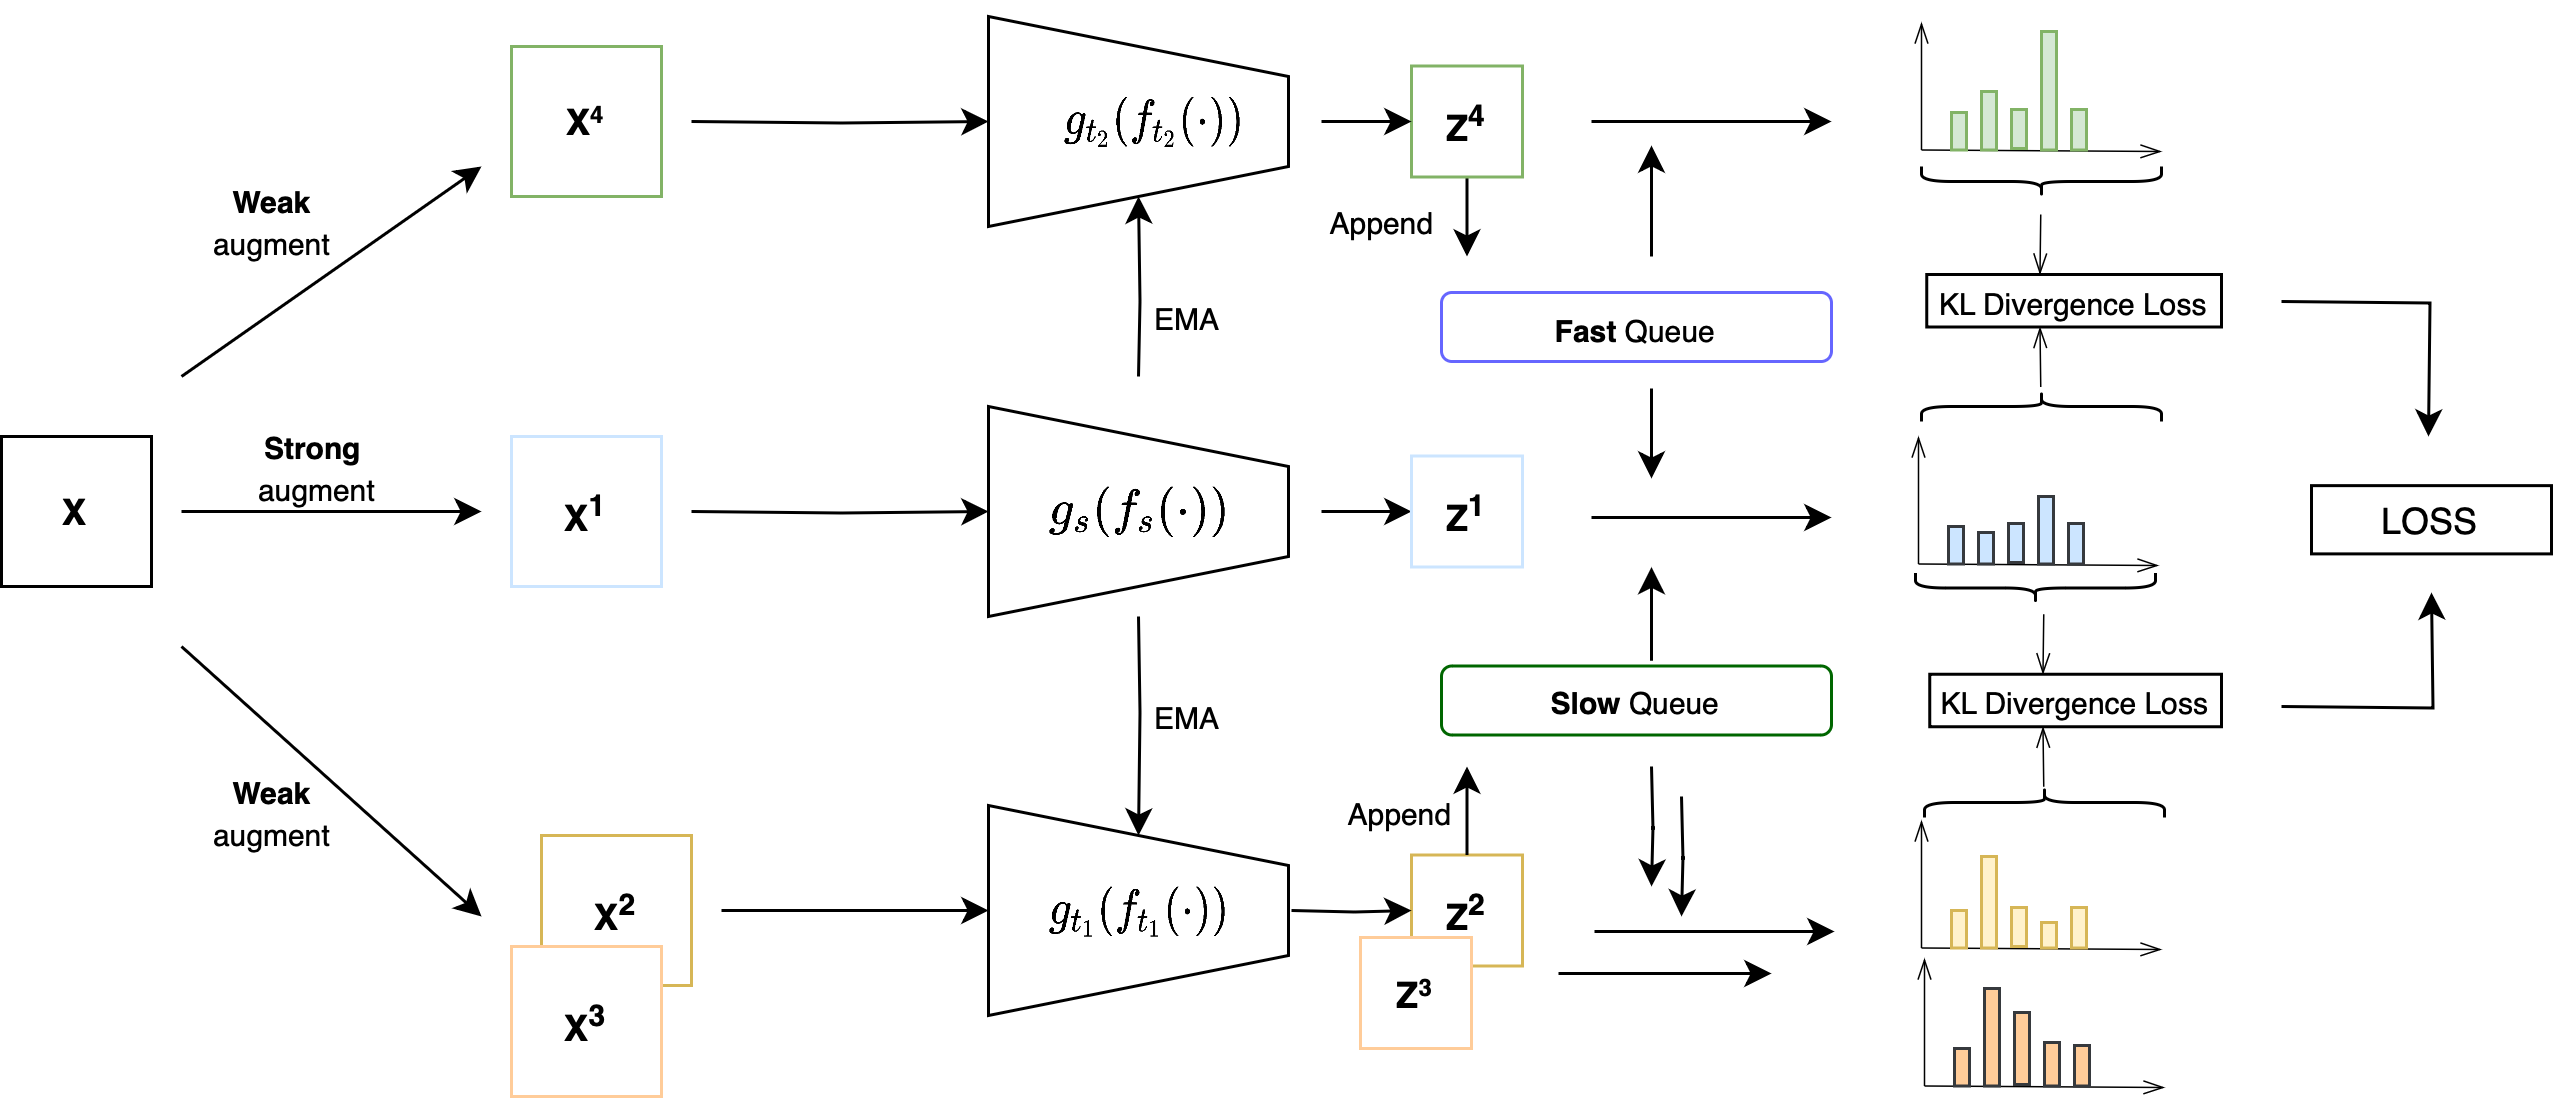
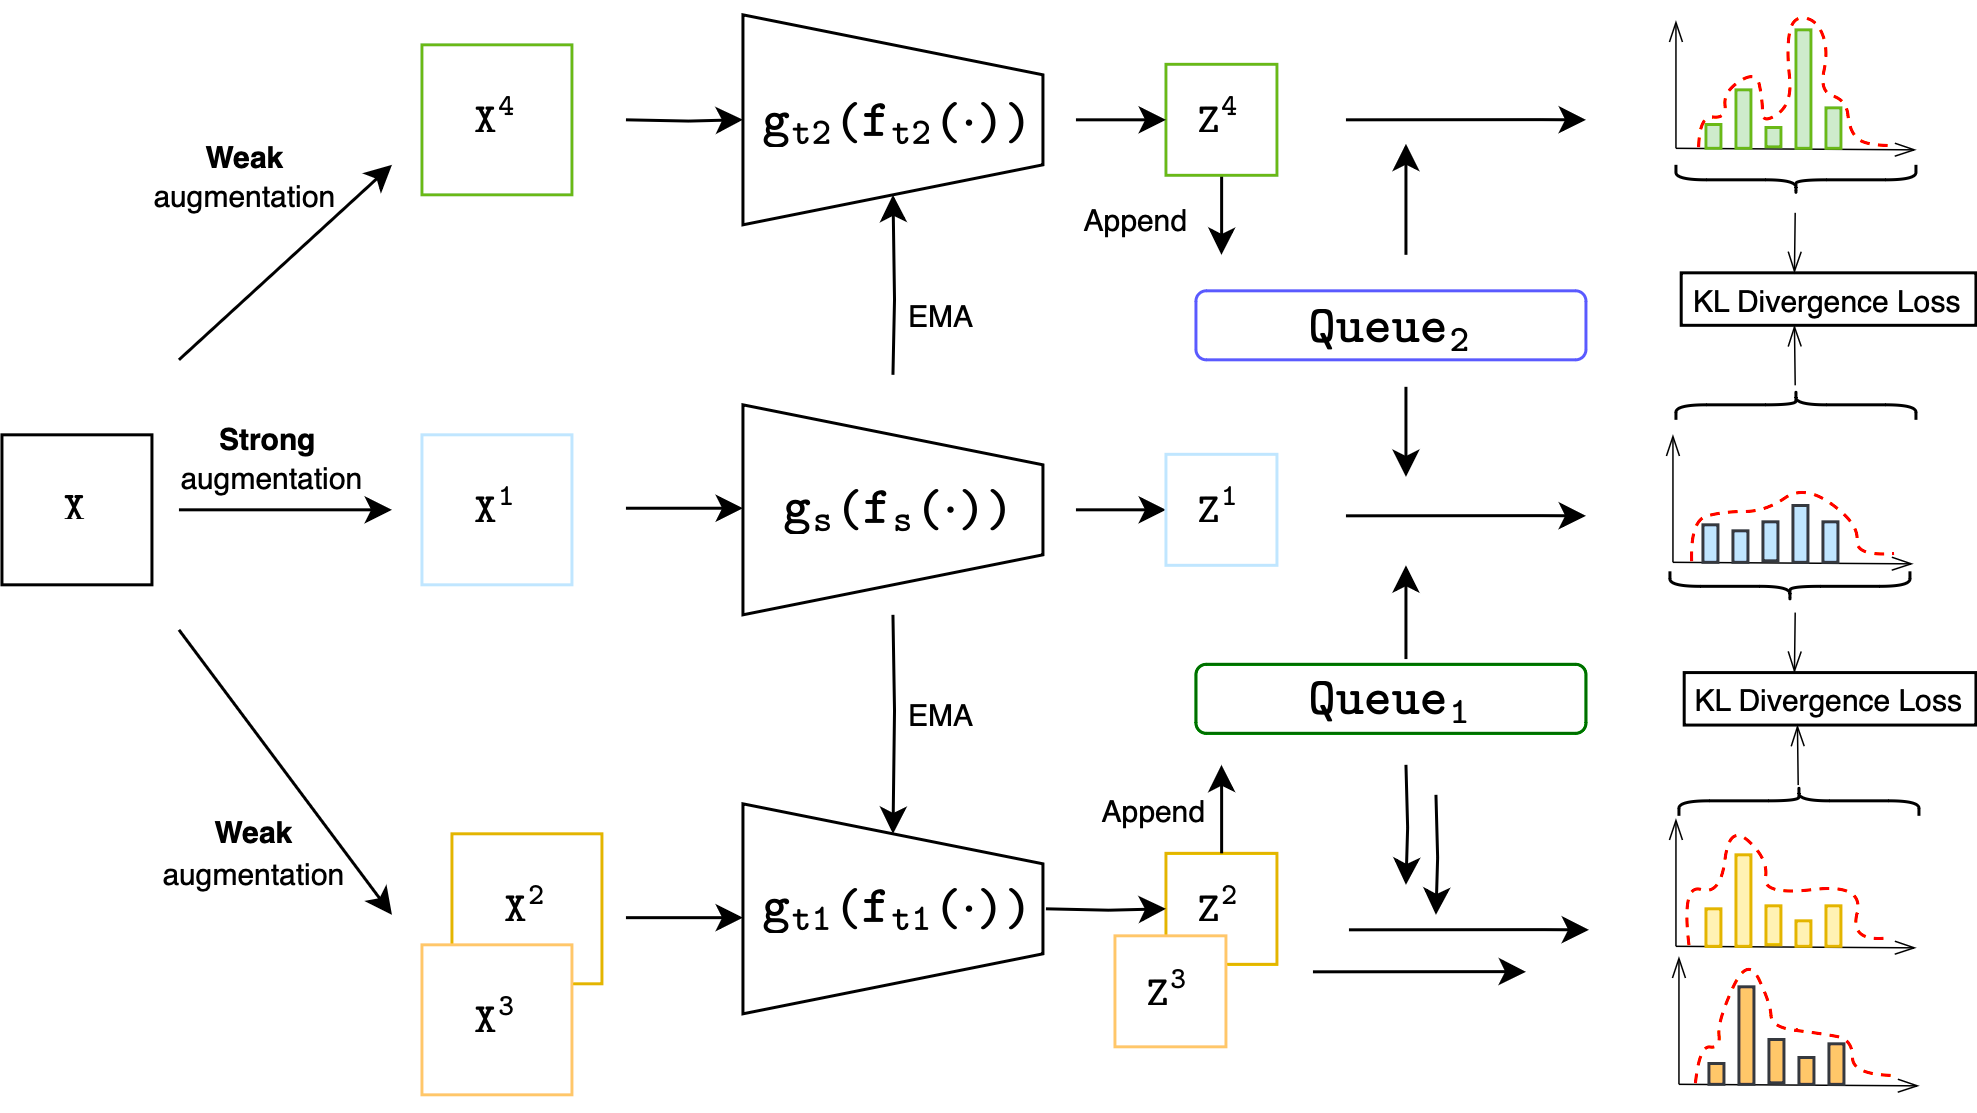
fix figure: msvq.png and readme

diff --git a/README.md b/README.md
@@ -1,6 +1,6 @@
 # MSVQ: Self-Supervised Learning with Multiple Sample Views and Queues
 
-This repository is the official implementation of [MSVQ: Self-Supervised Learning by Multiple Sample Views and Queues](https://arxiv.org/abs/2305.05370v1). 
+This is an anonymous submission PyTorch implementation of MSVQ proposed by our paper [MSVQ: Self-Supervised Learning by Multiple Sample Views and Queues]
 
 > ![figure1](./figures/msvq.png "MSVQ_overview")
 > 
